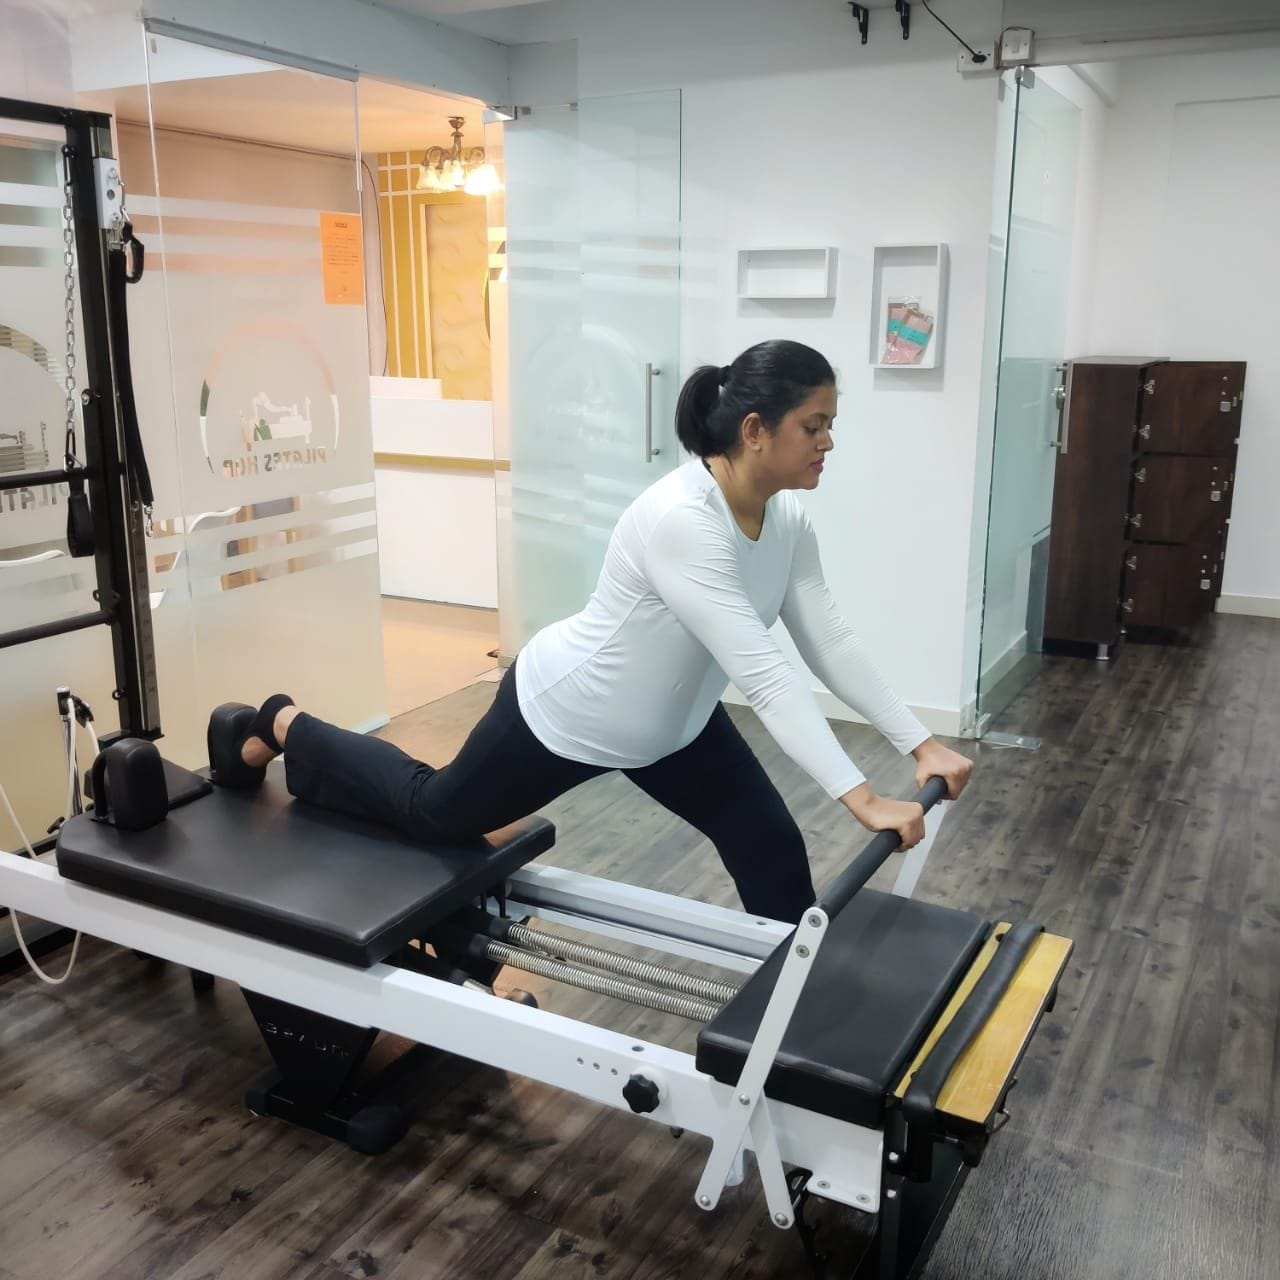
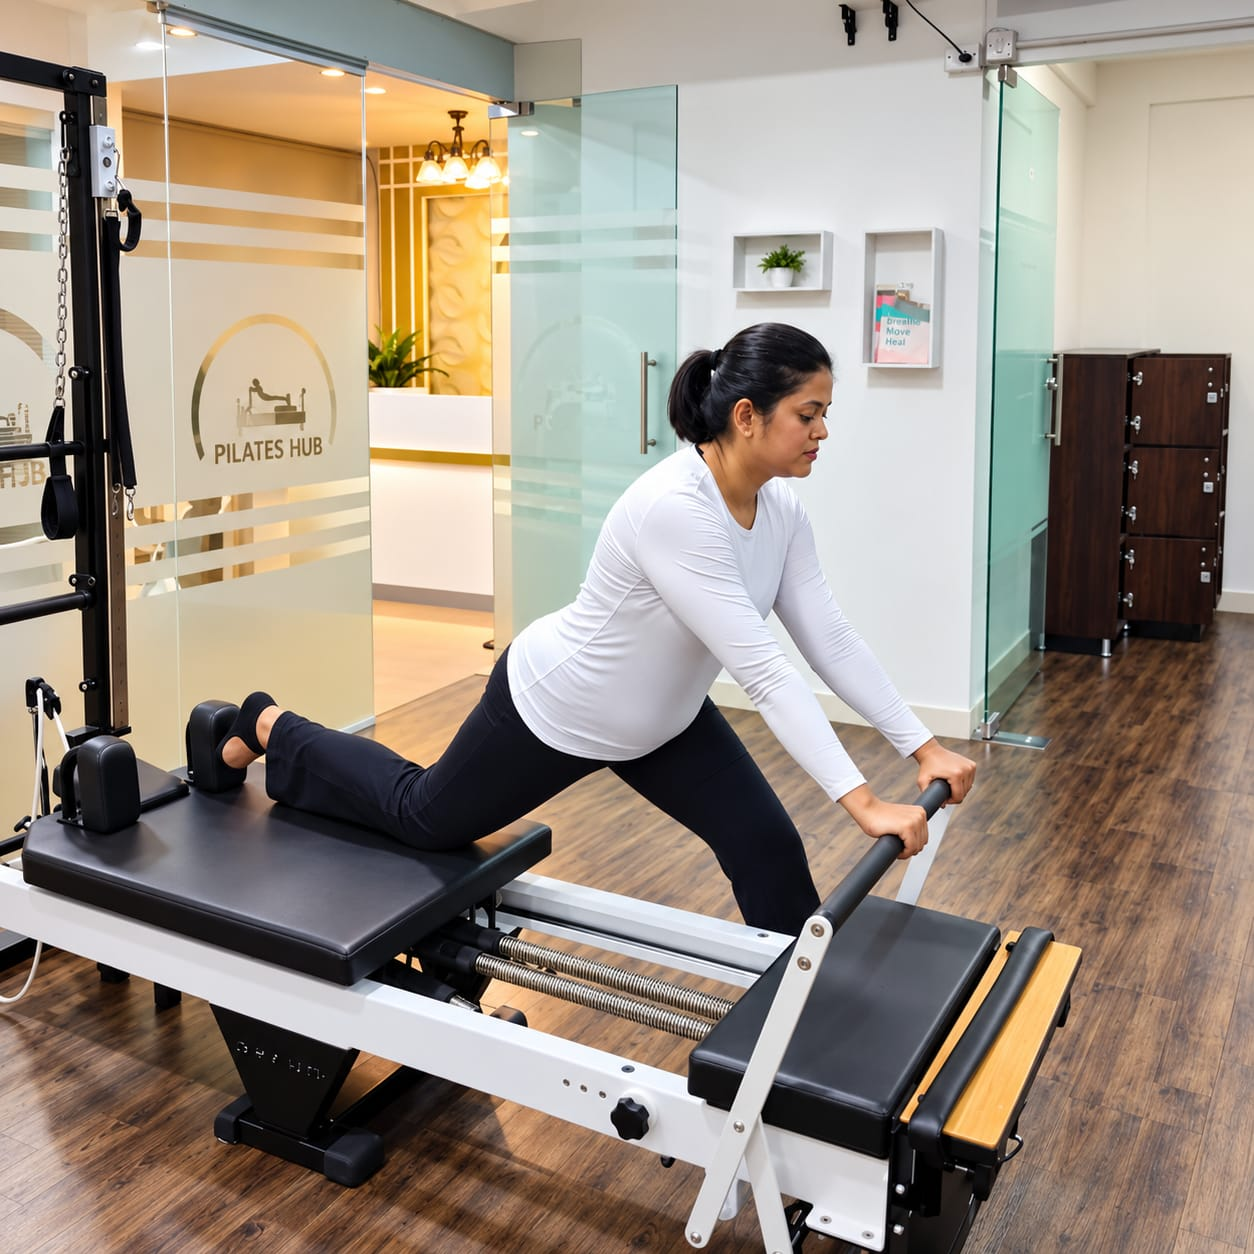
Real studio photography across the site
- Homepage LocationsTeaser: each location card now uses its own homeImage
  (hsr-home.jpg, bellandur-home.jpg, koramangala-home.jpg) instead of
  the shared placeholder.
- Per-location galleries: replaced the shared LOCATION_GALLERY with
  branch-specific arrays. GALLERY_HSR / GALLERY_BELLANDUR /
  GALLERY_KORAMANGALA — 7 photos each, sourced from
  images/{slug}/, compressed via sharp to 128-240KB @ 2000w.
- Philosophy: swapped the reformer photo for /philosophy.jpg (217KB
  from 2286KB source) and updated alt text.
- Sessions: all four programs now use real studio photos —
  group.jpg, personal.jpg, clinical.jpg, prenatal-postnatal.jpg
  (163-226KB each). Simplified imgFor helper accordingly.
- Amenities page: dropped the 'Not at this branch' / 'Showers are
  available at Bellandur and Koramangala branches' block on HSR.
  AmenitiesGrid now only renders amenities the branch actually offers,
  so the page reads as a positive list of what's available.

diff --git a/lib/content.ts b/lib/content.ts
@@ -134,6 +134,7 @@ export const sessions = [
       "2 days / week · 8-session pack · 1-month validity",
     ],
     image: "1571902943202-507ec2618e8f",
+    imageUrl: "/sessions/group.jpg",
   },
   {
     slug: "personal",
@@ -145,6 +146,7 @@ export const sessions = [
       "2 days / week · 8-session pack · 1-month validity",
     ],
     image: "1518611012118-696072aa579a",
+    imageUrl: "/sessions/personal.jpg",
   },
   {
     slug: "clinical",
@@ -180,19 +182,35 @@ const APPARATUS_ALL = [
   "Pilates accessories",
 ] as const;
 
-// Real, in-studio photography — same set used across all three
-// per-location pages (Overview / Amenities / Book).
-// reception.jpg is the branded reception shot (PILATES HUB logo wall) —
-// used first so it's what shows on the homepage and hero.
-export const LOCATION_GALLERY = [
-  "/locations/reception.jpg",
-  "/locations/1.jpg",
-  "/locations/2.jpg",
-  "/locations/3.jpg",
-  "/locations/4.jpg",
-  "/locations/5.jpg",
-  "/locations/6.jpg",
-  "/locations/7.jpg",
+// Real, in-studio photography — one set per branch, seven photos each,
+// used identically across the Overview / Amenities / Book pages of that
+// branch. The homepage LocationsTeaser uses `homeImage` per location.
+export const GALLERY_HSR = [
+  "/locations/hsr/1.jpg",
+  "/locations/hsr/2.jpg",
+  "/locations/hsr/3.jpg",
+  "/locations/hsr/4.jpg",
+  "/locations/hsr/5.jpg",
+  "/locations/hsr/6.jpg",
+  "/locations/hsr/7.jpg",
+] as const;
+export const GALLERY_BELLANDUR = [
+  "/locations/bellandur/1.jpg",
+  "/locations/bellandur/2.jpg",
+  "/locations/bellandur/3.jpg",
+  "/locations/bellandur/4.jpg",
+  "/locations/bellandur/5.jpg",
+  "/locations/bellandur/6.jpg",
+  "/locations/bellandur/7.jpg",
+] as const;
+export const GALLERY_KORAMANGALA = [
+  "/locations/koramangala/1.jpg",
+  "/locations/koramangala/2.jpg",
+  "/locations/koramangala/3.jpg",
+  "/locations/koramangala/4.jpg",
+  "/locations/koramangala/5.jpg",
+  "/locations/koramangala/6.jpg",
+  "/locations/koramangala/7.jpg",
 ] as const;
 
 // Every amenity we offer. `showersAt` lists the branches where the
@@ -237,7 +255,8 @@ export const locations = [
     hours: UNIFIED_HOURS,
     apparatus: APPARATUS_ALL,
     amenityKeys: ["parking", "lockers", "changing", "ac", "refreshments", "wifi"] as const,
-    gallery: LOCATION_GALLERY,
+    gallery: GALLERY_HSR,
+    homeImage: "/locations/hsr-home.jpg",
     mapsQuery:
       "PilatesHub, 2577, 13th Cross, 27th Main Rd, HSR Layout, Bengaluru 560102",
     geo: { lat: 12.9121, lng: 77.6446 },
@@ -255,7 +274,8 @@ export const locations = [
     hours: UNIFIED_HOURS,
     apparatus: APPARATUS_ALL,
     amenityKeys: ["parking", "lockers", "changing", "ac", "refreshments", "wifi", "showers"] as const,
-    gallery: LOCATION_GALLERY,
+    gallery: GALLERY_BELLANDUR,
+    homeImage: "/locations/bellandur-home.jpg",
     mapsQuery:
       "PilatesHub, Bhupal Reddy Building, Gear School Rd, Bellandur, Bengaluru 560103",
     geo: null,
@@ -273,7 +293,8 @@ export const locations = [
     hours: UNIFIED_HOURS,
     apparatus: APPARATUS_ALL,
     amenityKeys: ["parking", "lockers", "changing", "ac", "refreshments", "wifi", "showers"] as const,
-    gallery: LOCATION_GALLERY,
+    gallery: GALLERY_KORAMANGALA,
+    homeImage: "/locations/koramangala-home.jpg",
     mapsQuery:
       "PilatesHub, SR Complex, Tavarekere Main Rd, S.G. Palya, Bengaluru 560029",
     geo: null,

diff --git a/components/locations/AmenitiesGrid.tsx b/components/locations/AmenitiesGrid.tsx
@@ -2,9 +2,9 @@ import { AmenityIcon } from "./AmenityIcon";
 import { AMENITIES } from "@/lib/content";
 
 /**
- * Amenity cards. `activeKeys` marks which amenities the location actually
- * offers; the others render dimmed with a "Not at this branch" tag.
- * That way visitors can see at a glance what's on offer and what isn't.
+ * Amenity cards. Only renders the amenities this branch actually offers —
+ * we deliberately omit anything the branch doesn't have so visitors read
+ * the page as a positive list of what's available, not what's missing.
  */
 export function AmenitiesGrid({
   activeKeys,
@@ -12,47 +12,28 @@ export function AmenitiesGrid({
   activeKeys: readonly string[];
 }) {
   const active = new Set<string>(activeKeys);
+  const items = AMENITIES.filter((a) => active.has(a.key));
   return (
     <ul className="grid gap-3 sm:grid-cols-2 md:grid-cols-3 md:gap-4">
-      {AMENITIES.map((a) => {
-        const on = active.has(a.key);
-        return (
-          <li
-            key={a.key}
-            className={`relative flex items-start gap-4 rounded-[var(--radius-lg)] border p-5 transition-colors ${
-              on
-                ? "border-line bg-coal/60 text-cream"
-                : "border-line bg-transparent text-cream/40"
-            }`}
+      {items.map((a) => (
+        <li
+          key={a.key}
+          className="relative flex items-start gap-4 rounded-[var(--radius-lg)] border border-line bg-coal/60 p-5 text-cream"
+        >
+          <span
+            aria-hidden
+            className="grid h-11 w-11 shrink-0 place-items-center rounded-full border border-gold/60 bg-noir text-gold"
           >
-            <span
-              className={`grid h-11 w-11 shrink-0 place-items-center rounded-full border ${
-                on ? "border-gold/60 bg-noir text-gold" : "border-cream/15 text-cream/30"
-              }`}
-              aria-hidden
-            >
-              <AmenityIcon name={a.key} className="h-5 w-5" />
-            </span>
-            <div className="min-w-0 flex-1">
-              <p
-                className={`font-mono text-[0.72rem] uppercase tracking-[0.2em] ${
-                  on ? "text-gold" : "text-cream/30"
-                }`}
-              >
-                {a.label}
-              </p>
-              <p className={`mt-1.5 text-sm leading-relaxed ${on ? "text-mist" : "text-cream/30"}`}>
-                {a.copy}
-              </p>
-              {!on && (
-                <p className="mt-2 text-[0.7rem] uppercase tracking-[0.16em] text-cream/25">
-                  Not at this branch
-                </p>
-              )}
-            </div>
-          </li>
-        );
-      })}
+            <AmenityIcon name={a.key} className="h-5 w-5" />
+          </span>
+          <div className="min-w-0 flex-1">
+            <p className="font-mono text-[0.72rem] uppercase tracking-[0.2em] text-gold">
+              {a.label}
+            </p>
+            <p className="mt-1.5 text-sm leading-relaxed text-mist">{a.copy}</p>
+          </div>
+        </li>
+      ))}
     </ul>
   );
 }

diff --git a/components/sections/home/Sessions.tsx b/components/sections/home/Sessions.tsx
@@ -3,14 +3,13 @@
 import { useState } from "react";
 import Image from "next/image";
 import { AnimatePresence, motion } from "framer-motion";
-import { sessions, img } from "@/lib/content";
-
-/** Prefer a session's real photo (/public/sessions/*.jpg) when it has one;
- *  fall back to the Unsplash placeholder for sessions that don't yet. */
-type Session = (typeof sessions)[number];
-const imgFor = (s: Session, w: number, q = 72) =>
-  "imageUrl" in s && s.imageUrl ? s.imageUrl : img(s.image, w, q);
+import { sessions } from "@/lib/content";
 import { DUR, EASE } from "@/lib/motion";
+
+/** All four sessions now ship with a real studio photo; keep a helper so
+ *  future sessions can be added with just an `imageUrl`. */
+type Session = (typeof sessions)[number];
+const imgFor = (s: Session) => s.imageUrl;
 import { SectionLabel } from "@/components/ui/SectionLabel";
 
 export default function Sessions() {
@@ -48,7 +47,7 @@ export default function Sessions() {
                   transition={{ duration: DUR.standard, ease: EASE.outSoft }}
                 >
                   <Image
-                    src={imgFor(sessions[shown], 1000)}
+                    src={imgFor(sessions[shown])}
                     alt={sessions[shown].title}
                     fill
                     sizes="40vw"
@@ -82,7 +81,7 @@ export default function Sessions() {
                   {/* Inline image on mobile */}
                   <div className="col-span-2 overflow-hidden rounded-[var(--radius-md)] lg:hidden">
                     <div className="relative aspect-[16/10]">
-                      <Image src={imgFor(s, 800, 70)} alt={s.title} fill sizes="100vw" className="object-cover" />
+                      <Image src={imgFor(s)} alt={s.title} fill sizes="100vw" className="object-cover" />
                     </div>
                   </div>
 

diff --git a/app/locations/[slug]/amenities/page.tsx b/app/locations/[slug]/amenities/page.tsx
@@ -66,26 +66,11 @@ export default async function AmenitiesPage({ params }: { params: Promise<Params
       <section className="bg-coal py-16 md:py-20">
         <div className="container-page">
           <p className="font-mono text-[0.72rem] uppercase tracking-[0.22em] text-gold">
-            {amenities.length} of 7 amenities available at this branch
+            {amenities.length} amenities available at this branch
           </p>
           <div className="mt-8">
             <AmenitiesGrid activeKeys={loc.amenityKeys} />
           </div>
-
-          {/* Explicit note for HSR (no showers) */}
-          {!(loc.amenityKeys as readonly string[]).includes("showers") && (
-            <p className="mt-8 max-w-2xl text-sm text-mist">
-              Showers are available at our Bellandur and Koramangala branches.
-              {" "}
-              <Link href="/locations/bellandur/amenities" className="link-underline text-cream">
-                Bellandur
-              </Link>{" "}
-              ·{" "}
-              <Link href="/locations/koramangala/amenities" className="link-underline text-cream">
-                Koramangala
-              </Link>
-            </p>
-          )}
         </div>
       </section>
 

diff --git a/components/sections/home/Philosophy.tsx b/components/sections/home/Philosophy.tsx
@@ -3,7 +3,7 @@
 import { useRef } from "react";
 import Image from "next/image";
 import { motion, useScroll, useTransform } from "framer-motion";
-import { philosophy, img, poses } from "@/lib/content";
+import { philosophy, poses } from "@/lib/content";
 import { SectionLabel } from "@/components/ui/SectionLabel";
 import { Reveal } from "@/components/motion/Reveal";
 import { RevealText } from "@/components/motion/RevealText";
@@ -64,8 +64,8 @@ export default function Philosophy() {
             <FadeIn scale={1.06} y={0} duration={1.2}>
               <div className="relative aspect-[4/5] w-full overflow-hidden rounded-[var(--radius-lg)] bg-ash">
                 <Image
-                  src={img(philosophy.image, 1400, 74)}
-                  alt="Instructor guiding a client through a controlled reformer exercise"
+                  src="/philosophy.jpg"
+                  alt="PilatesHub studio philosophy"
                   fill
                   sizes="(max-width: 768px) 100vw, 55vw"
                   className="object-cover"

diff --git a/components/sections/home/LocationsTeaser.tsx b/components/sections/home/LocationsTeaser.tsx
@@ -97,7 +97,7 @@ export default function LocationsTeaser() {
                 transition={{ duration: DUR.standard, ease: EASE.outSoft }}
               >
                 <Image
-                  src={current.gallery[0]}
+                  src={current.homeImage}
                   alt={`${current.name} studio`}
                   fill
                   sizes="(max-width: 768px) 100vw, 45vw"
